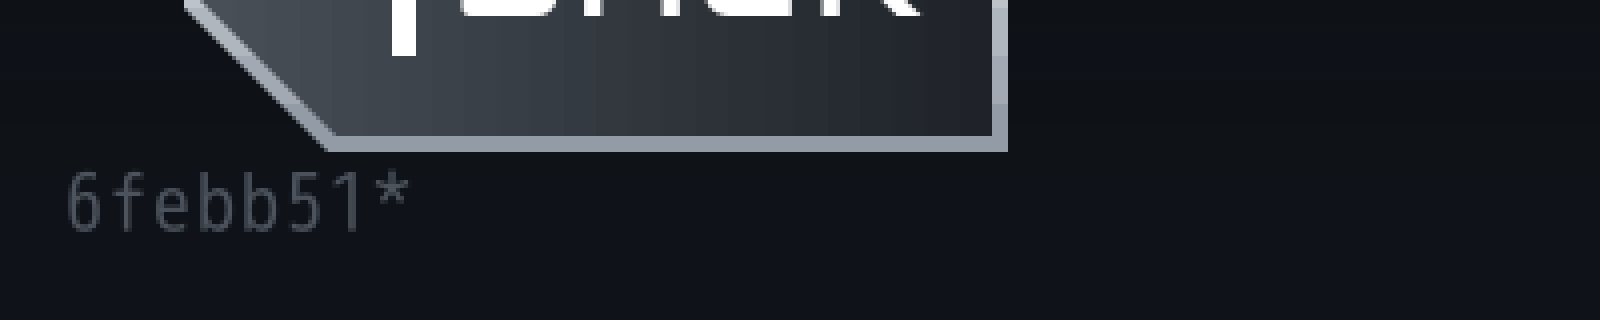
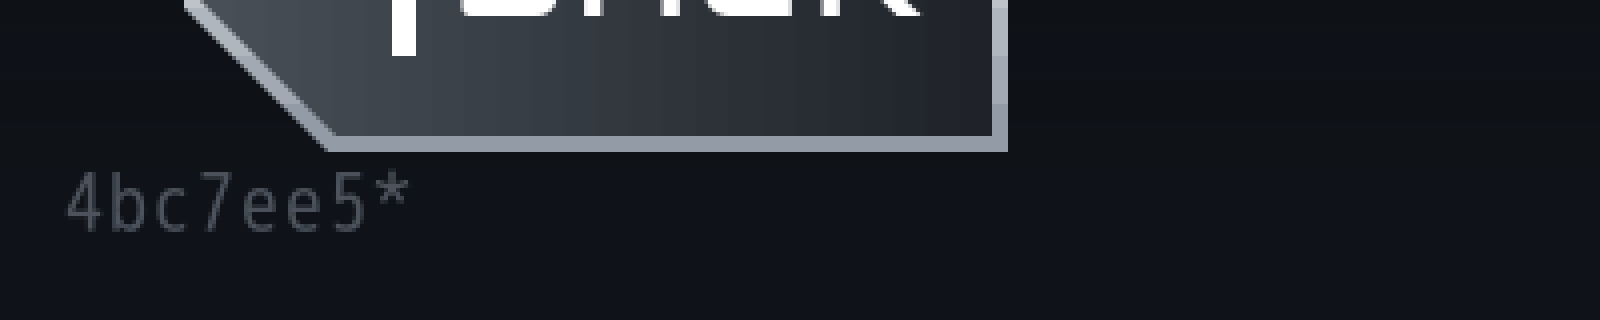
evidence(a0-129): re-shoot on the final tree, so the frame wears the shipped sha
Same bench, same ports, same two bundles — re-run against `4bc7ee51` rather
than the mid-branch build the first capture used, so the specimen and the code
under review are the same thing. The numbers are unchanged where it matters:
the stamp's rect is `{8, 363, 43.5x13}` on both bundles, the brightest pixel
inside it goes 255 -> 81.9, and the plate's top edge goes 335.5 -> 315.

Changed region(s): [[0.0312, 0.5312, 0.25, 0.7188]]

diff --git a/evidence/a0-129-the-stamp-stays-readable/README.md b/evidence/a0-129-the-stamp-stays-readable/README.md
@@ -34,7 +34,7 @@ arena card. Nothing is stubbed and no seam sets the state.
 | | sha the frame wears | tree |
 |---|---|---|
 | **before** | `85c173d*` | `origin/main` at `85c173dd`, built from a detached worktree |
-| **after** | `6febb51*` | this branch at `6febb51d` |
+| **after** | `4bc7ee5*` | this branch at `4bc7ee51` |
 
 Both wear the `*`: the container carries untracked build output (`dist/`,
 `dist-a088/`) so `git status --porcelain` is non-empty and
@@ -63,12 +63,12 @@ the tag.
 
 ### The numbers
 
-| | before (`85c173d*`) | after (`6febb51*`) |
+| | before (`85c173d*`) | after (`4bc7ee5*`) |
 |---|---|---|
 | the stamp's rect, off `__buildBadge` | `{8, 363, 43.5×13}` | `{8, 363, 43.5×13}` — **unmoved** |
 | `withinAnchor` | true | true |
 | brightest pixel inside that rect | **255.0** | **81.9** |
-| mean pixel inside that rect | 67.3 | 27.1 |
+| mean pixel inside that rect | 67.3 | 26.5 |
 | top of the bright plate, in the stamp's columns | **335.5** | **315.0** |
 | the stamp's row begins at | 363 | 363 |
 
